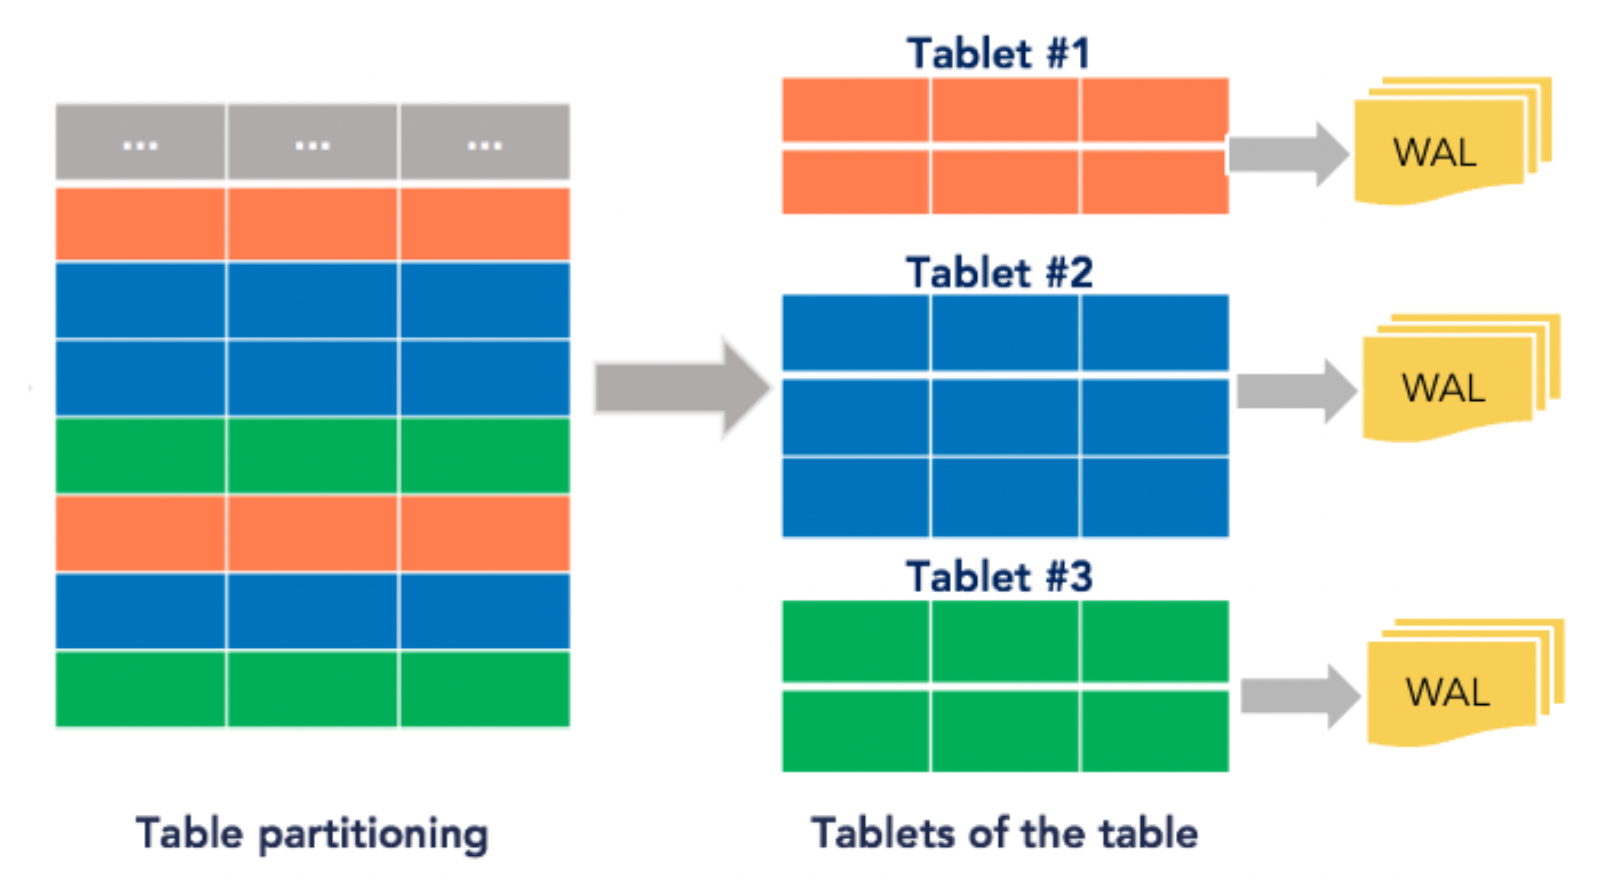
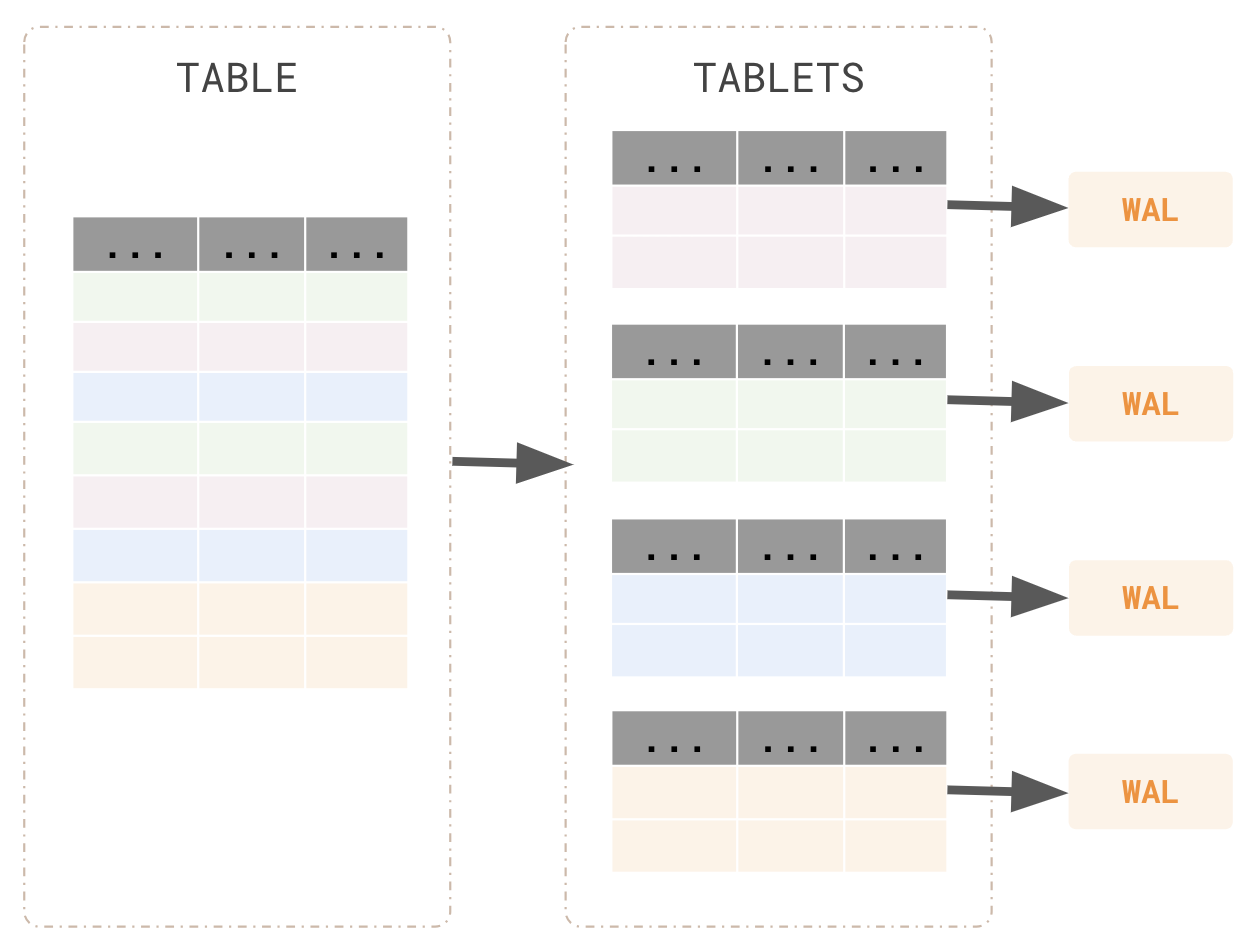
updated diagrams

diff --git a/docs/content/preview/architecture/docdb-replication/change-data-capture.md b/docs/content/preview/architecture/docdb-replication/change-data-capture.md
@@ -16,16 +16,14 @@ type: docs
 
 ## Architecture
 
-![Stateless CDC Service](/images/architecture/stateless_cdc_service.png)
-
 Every YB-TServer has a `CDC service` that is stateless. The main APIs provided by the CDC service are the following:
 
 - `createCDCSDKStream` API for creating the stream on the database.
 - `getChangesCDCSDK` API that can be used by the client to get the latest set of changes.
 
-## CDC streams
+![Stateless CDC Service](/images/architecture/stateless_cdc_service.png)
 
-Creating a new CDC stream returns a stream UUID. This is facilitated via the [yb-admin](../../../admin/yb-admin/#change-data-capture-cdc-commands) tool.
+## CDC streams
 
 YugabyteDB automatically splits user tables into multiple shards (also called tablets) using either a hash- or range-based strategy. The primary key for each row in the table uniquely identifies the location of the tablet in the row.
 
@@ -39,11 +37,13 @@ The Debezium YugabyteDB connector captures row-level changes in the schemas of a
 
 ![How does CDC work](/images/explore/cdc-overview-work.png)
 
-The connector produces a change event for every row-level insert, update, and delete operation that was captured, and sends change event records for each table in a separate Kafka topic. Client applications read the Kafka topics that correspond to the database tables of interest, and can react to every row-level event they receive from those topics. For each table, the default behavior is that the connector streams all generated events to a separate Kafka topic for that table. Applications and services consume data change event records from that topic.
+The core primitive of CDC is the _stream_. Streams can be enabled and disabled on databases. You can specify which tables to include or exclude. Every change to a watched database table is emitted as a record in a configurable format to a configurable sink. Streams scale to any YugabyteDB cluster independent of its size and are designed to impact production traffic as little as possible.
 
-The core primitive of CDC is the _stream_. Streams can be enabled and disabled on databases. Every change to a watched database table is emitted as a record in a configurable format to a configurable sink. Streams scale to any YugabyteDB cluster independent of its size and are designed to impact production traffic as little as possible.
+Creating a new CDC stream returns a stream UUID. This is facilitated via the [yb-admin](../../../admin/yb-admin/#change-data-capture-cdc-commands) tool. A stream ID is created first, per database. You configure the maximum batch side in YugabyteDB, while the polling frequency is configured on the connector side.
 
-![How does CDC work](/images/explore/cdc-overview-work3.png)
+Connector tasks can consume changes from multiple tablets. At least once delivery is guaranteed. In turn, connector tasks write to the Kafka cluster, and tasks don't need to match Kafka partitions. Tasks cab be independently scaled up or down.
+
+The connector produces a change event for every row-level insert, update, and delete operation that was captured, and sends change event records for each table in a separate Kafka topic. Client applications read the Kafka topics that correspond to the database tables of interest, and can react to every row-level event they receive from those topics. For each table, the default behavior is that the connector streams all generated events to a separate Kafka topic for that table. Applications and services consume data change event records from that topic. All changes for a row (or rows in the same tablet) are received in the in the order in which they happened. A checkpoint per stream ID and tablet is updated in a state table after a successful write to Kafka brokers.
 
 ## CDC guarantees
 
